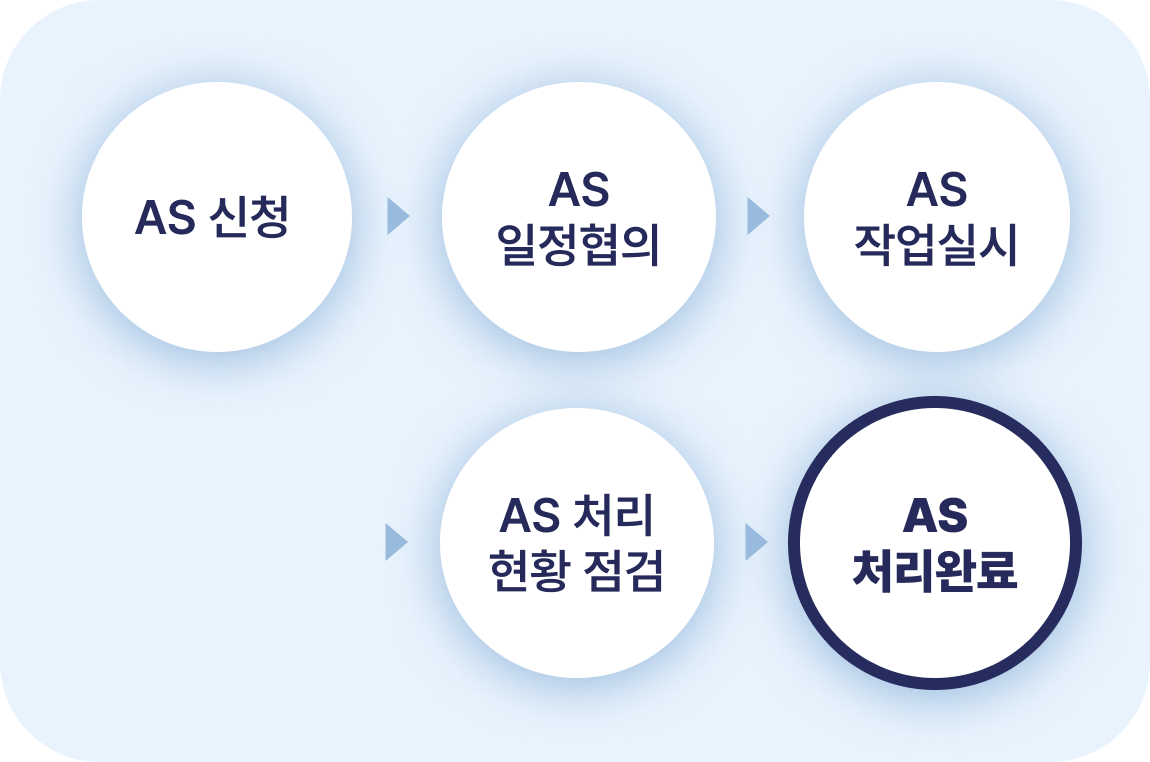
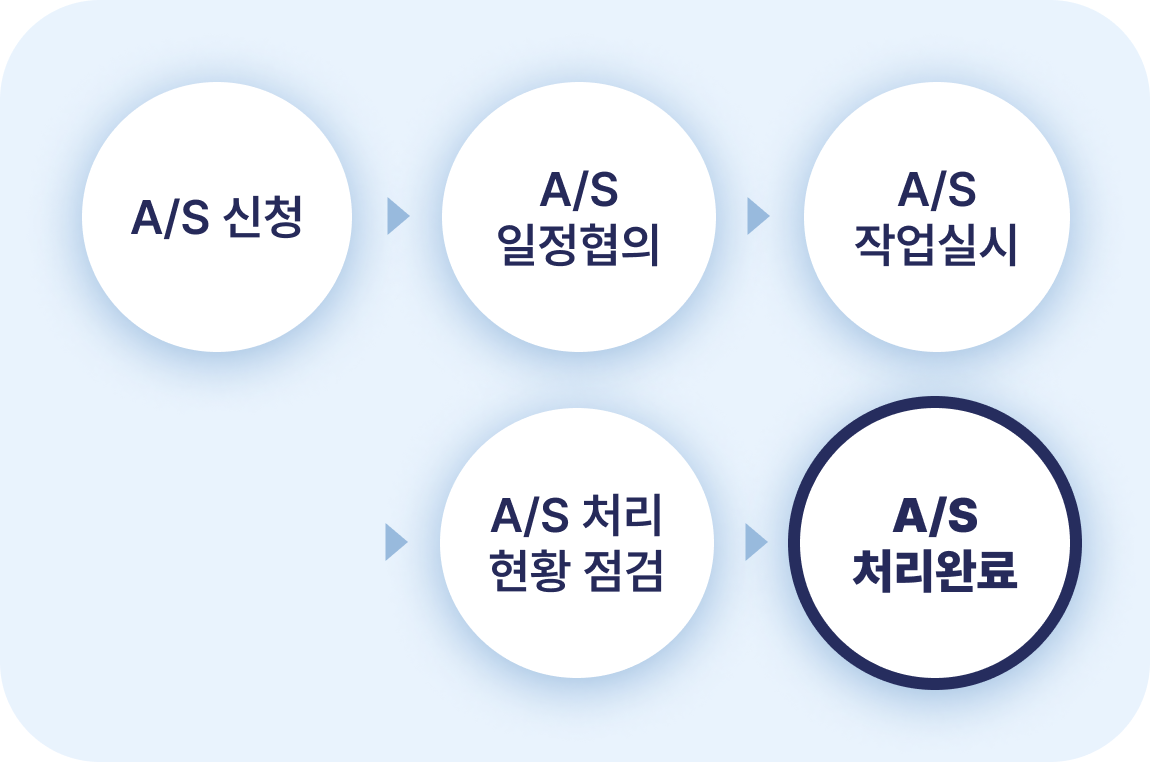
2024-05-27 modify

diff --git a/html/sub4-8-2.html b/html/sub4-8-2.html
@@ -35,15 +35,15 @@
                         <a href="" class="sub-depth-nav-item">무순위/잔여세대 청약</a>
                         <a href="" class="sub-depth-nav-item">옵션신청</a>
                         <a href="" class="sub-depth-nav-item">1:1문의</a>
-                        <a href="" class="sub-depth-nav-item" data-state="selected">AS센터</a>
+                        <a href="" class="sub-depth-nav-item" data-state="selected">A/S센터</a>
                     </div>
                 </div>
                 <div class="sub-content">
                     <div class="sub-depth-list">
                         <div class="sub-depth-list-wrap">
-                            <a href="" class="button-base" data-style="line-primary" data-size="size-60">AS운영안내</a>
+                            <a href="" class="button-base" data-style="line-primary" data-size="size-60">A/S운영안내</a>
                             <a href="" class="button-base" data-style="line-primary" data-size="size-60" data-state="selected">A/S기간</a>
-                            <a href="" class="button-base" data-style="line-primary" data-size="size-60">AS신청</a>
+                            <a href="" class="button-base" data-style="line-primary" data-size="size-60">A/S신청</a>
                         </div>
                     </div>
 
@@ -52,9 +52,9 @@
                             <div class="as-content-wrap">
                                 <h4 class="as-content-tit">1) 하자보수 기간</h4>
                                 <ul class="as-content-txt">
-                                    <li data-bul="dot">AS기간이 지난 하자는 유상처리될 수 있습니다.</li>
-                                    <li data-bul="dot">AS기간 내 또는 AS기간 후라도 설치된 제품의 단종 또는 제조사 사정으로 물량 확보가 되지 않을 경우 동일 사양의 다른 제품으로 교체될 수 있습니다.</li>
-                                    <li data-bul="dot">고객과실로 발생한 하자는 AS기간 내에도 유상처리 될 수 있습니다.</li>
+                                    <li data-bul="dot">A/S기간이 지난 하자는 유상처리될 수 있습니다.</li>
+                                    <li data-bul="dot">A/S기간 내 또는 A/S기간 후라도 설치된 제품의 단종 또는 제조사 사정으로 물량 확보가 되지 않을 경우 동일 사양의 다른 제품으로 교체될 수 있습니다.</li>
+                                    <li data-bul="dot">고객과실로 발생한 하자는 A/S기간 내에도 유상처리 될 수 있습니다.</li>
                                 </ul>
                             </div>
                             <div class="as-content-wrap">

diff --git a/html/sub4-8-1.html b/html/sub4-8-1.html
@@ -35,15 +35,15 @@
                         <a href="" class="sub-depth-nav-item">무순위/잔여세대 청약</a>
                         <a href="" class="sub-depth-nav-item">옵션신청</a>
                         <a href="" class="sub-depth-nav-item">1:1문의</a>
-                        <a href="" class="sub-depth-nav-item" data-state="selected">AS센터</a>
+                        <a href="" class="sub-depth-nav-item" data-state="selected">A/S센터</a>
                     </div>
                 </div>
                 <div class="sub-content">
                     <div class="sub-depth-list">
                         <div class="sub-depth-list-wrap">
-                            <a href="" class="button-base" data-style="line-primary" data-size="size-60" data-state="selected">AS운영안내</a>
+                            <a href="" class="button-base" data-style="line-primary" data-size="size-60" data-state="selected">A/S운영안내</a>
                             <a href="" class="button-base" data-style="line-primary" data-size="size-60">A/S기간</a>
-                            <a href="" class="button-base" data-style="line-primary" data-size="size-60">AS신청</a>
+                            <a href="" class="button-base" data-style="line-primary" data-size="size-60">A/S신청</a>
                         </div>
                     </div>
 
@@ -52,7 +52,7 @@
                     </div>
                     <div class="as-content mt-l" data-gap="l">
                         <div class="as-content-wrap">
-                            <h4 class="as-content-tit">1) AS 신청 방법</h4>
+                            <h4 class="as-content-tit">1) A/S 신청 방법</h4>
                             <div class="fake-table-box mt-m">
                                 <div class="fake-table-row">
                                     <dl class="fake-table-item">
@@ -90,7 +90,7 @@
                             </div>
                         </div>
                         <div class="as-content-wrap">
-                            <h4 class="as-content-tit">2) AS 처리 절차 </h4>
+                            <h4 class="as-content-tit">2) A/S 처리 절차 </h4>
                             <div class="as-img mt-l">
                                 <img src="../assets/images/sub/as-img-pc.png" alt="" data-view="pc">
                                 <img src="../assets/images/sub/as-img-mobile.png" alt="" data-view="mobile">

diff --git a/html/sub4-8-3.html b/html/sub4-8-3.html
@@ -35,15 +35,15 @@
                         <a href="" class="sub-depth-nav-item">무순위/잔여세대 청약</a>
                         <a href="" class="sub-depth-nav-item">옵션신청</a>
                         <a href="" class="sub-depth-nav-item">1:1문의</a>
-                        <a href="" class="sub-depth-nav-item" data-state="selected">AS센터</a>
+                        <a href="" class="sub-depth-nav-item" data-state="selected">A/S센터</a>
                     </div>
                 </div>
                 <div class="sub-content">
                     <div class="sub-depth-list">
                         <div class="sub-depth-list-wrap">
-                            <a href="" class="button-base" data-style="line-primary" data-size="size-60">AS운영안내</a>
+                            <a href="" class="button-base" data-style="line-primary" data-size="size-60">A/S운영안내</a>
                             <a href="" class="button-base" data-style="line-primary" data-size="size-60">A/S기간</a>
-                            <a href="" class="button-base" data-style="line-primary" data-size="size-60" data-state="selected">AS신청</a>
+                            <a href="" class="button-base" data-style="line-primary" data-size="size-60" data-state="selected">A/S신청</a>
                         </div>
                     </div>
 

diff --git a/assets/css/components/list.css b/assets/css/components/list.css
@@ -12,7 +12,7 @@
     background:url("../../images/common/no-image-logo2.svg") no-repeat 50% 50%;
     background-size:contain;
     @media screen and (max-width:1023px) {
-        width:12rem;
+        width:10rem;
     }
 }
 .card-item {
@@ -148,8 +148,8 @@
         }
         .card-item-img::before {
             transition:all 0.2s ease-in;
-            opacity:1;
-            background:linear-gradient(to top, rgba(0, 0, 0, 0.9), rgba(0, 0, 0, 0.1) 100%);
+            opacity:.85;
+            background:#111537;
         }
     }
    /* @media screen and (max-width:1700px) {
@@ -260,7 +260,8 @@
             top:0;
             word-break:keep-all;
             opacity:0;
-            font-size:2.3rem;
+            font-size:2.2rem;
+            line-height:3.4rem;
             color:#000;
             padding:0;
             height:0;
@@ -269,7 +270,7 @@
             justify-content:flex-start;
 
             [data-ellipsis] {
-                min-height:17.4rem;
+                min-height:17rem;
                 text-align:left;
             }
             .date {
@@ -340,7 +341,8 @@
             }
             .card-item-desc {
                 font-size:1.6rem;
-                height:7rem;
+                line-height:2.3rem;
+                height:6.9rem;
                 opacity:1;
                 font-weight:500;
                 text-align:justify;

diff --git a/assets/css/page/parcel-info.css b/assets/css/page/parcel-info.css
@@ -202,7 +202,8 @@
     align-items:center;
     flex-shrink:0;
     aspect-ratio:501/327;
-    background-color:#F6FAFC;
+    background:url("../../images/common/no-data-card-bg-wide.jpg") 50% 50% no-repeat;
+    background-size:cover;
     img {
         display:block;
         width:100%;
@@ -474,7 +475,8 @@
     align-items:center;
     flex-shrink:0;
     align-self:flex-start;
-    background-color:#F6FAFC;
+    background:url("../../images/common/no-data-card-bg-wide.jpg") 50% 50% no-repeat;
+    background-size:cover;
     .ico-no-data-logo {
         opacity:.2;
     }
@@ -642,7 +644,8 @@
     justify-content:center;
     align-items:center;
     flex-shrink:0;
-    background-color:#F6FAFC;
+    background:url("../../images/common/no-data-card-bg-wide.jpg") 50% 50% no-repeat;
+    background-size:cover;
     .ico-no-data-logo {
         opacity:.2;
         width:10rem;

diff --git a/html/sub4-8-4p.html b/html/sub4-8-4p.html
@@ -67,12 +67,7 @@
                                 <option value="4">해지</option>
                             </select>
                         </div>
-                        <div class="form-select" data-size="full">
-                            <select title="시간 선택">
-                                <option value="1" selected>시간 선택</option>
-                            </select>
-                        </div>
-                        <!--<input type="text" class="form-input" value="" title="단지명" />-->
+                        <input type="text" class="form-input" value="" title="단지명" />
                         <button type="button" class="button-base" data-style="bg-dark" data-size="size-40">검색</button>
                     </div>
                 </div>

diff --git a/html/common/modal_allMenu.html b/html/common/modal_allMenu.html
@@ -90,7 +90,7 @@
                                         <li class="nav-dep2-item"><a href="#" class="nav-dep2-link">무순위/잔여세대 청약</a></li>
                                         <li class="nav-dep2-item"><a href="#" class="nav-dep2-link">옵션신청</a></li>
                                         <li class="nav-dep2-item"><a href="#" class="nav-dep2-link">1:1문의</a></li>
-                                        <li class="nav-dep2-item"><a href="#" class="nav-dep2-link">AS센터</a></li>
+                                        <li class="nav-dep2-item"><a href="#" class="nav-dep2-link">A/S센터</a></li>
                                     </ul>
                                 </div>
                             </dd>

diff --git a/html/common/header.html b/html/common/header.html
@@ -58,7 +58,7 @@
                         <li class="nav-dep2-item"><a href="#" class="nav-dep2-link">무순위/잔여세대 청약</a></li>
                         <li class="nav-dep2-item"><a href="#" class="nav-dep2-link">옵션신청</a></li>
                         <li class="nav-dep2-item"><a href="#" class="nav-dep2-link">1:1문의</a></li>
-                        <li class="nav-dep2-item"><a href="#" class="nav-dep2-link">AS센터</a></li>
+                        <li class="nav-dep2-item"><a href="#" class="nav-dep2-link">A/S센터</a></li>
                     </ul>
                 </li>
             </ul>

diff --git a/assets/css/page/brand.css b/assets/css/page/brand.css
@@ -185,7 +185,6 @@
                     opacity:0;
                     transform:translateX(-100vw);
                     transition:transform 1.7s ease, opacity 1.7s ease;
-
                     &[data-state="view"] {
                         opacity:1;
                         transform:translateX(0vw);
@@ -196,7 +195,6 @@
                     opacity:0;
                     transform:translateX(-100vw);
                     transition:transform 1.7s ease, opacity 1.7s ease;
-
                     &[data-state="view"] {
                         opacity:1;
                         transform:translateX(0vw);

diff --git a/assets/css/page/board.css b/assets/css/page/board.css
@@ -195,6 +195,7 @@
         font-size:2rem;
         line-height:2.4rem;
         font-weight:600;
+        font-family:'verdana','sans-serif';
         a {
             pointer-events:none;
         }
@@ -331,7 +332,8 @@
        aspect-ratio:410/262;
         width:41rem;
         flex-shrink:0;
-        background-color:#F6FAFC;
+        background:url("../../images/common/no-data-card-bg-wide.jpg") 50% 50% no-repeat;
+        background-size:cover;
         display:flex;
         align-items:center;
         justify-content:center;
